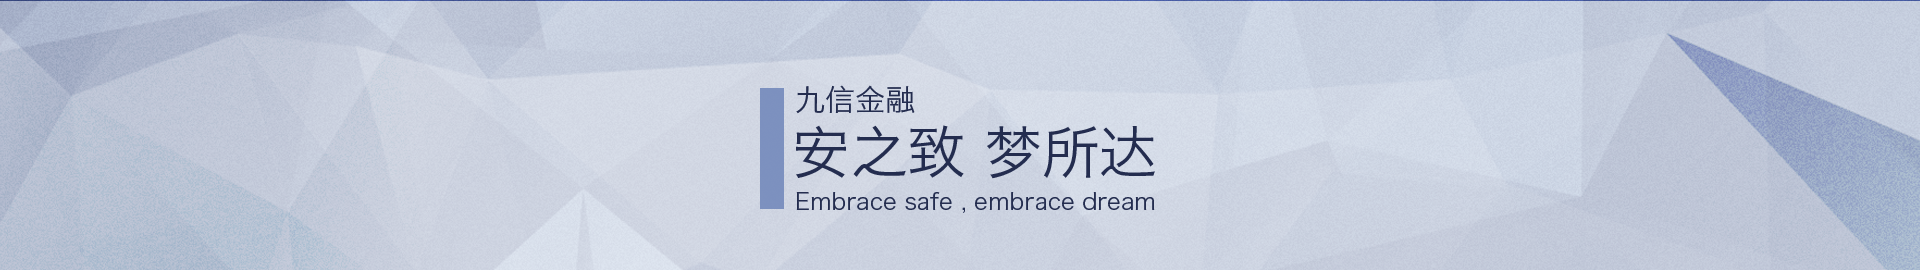
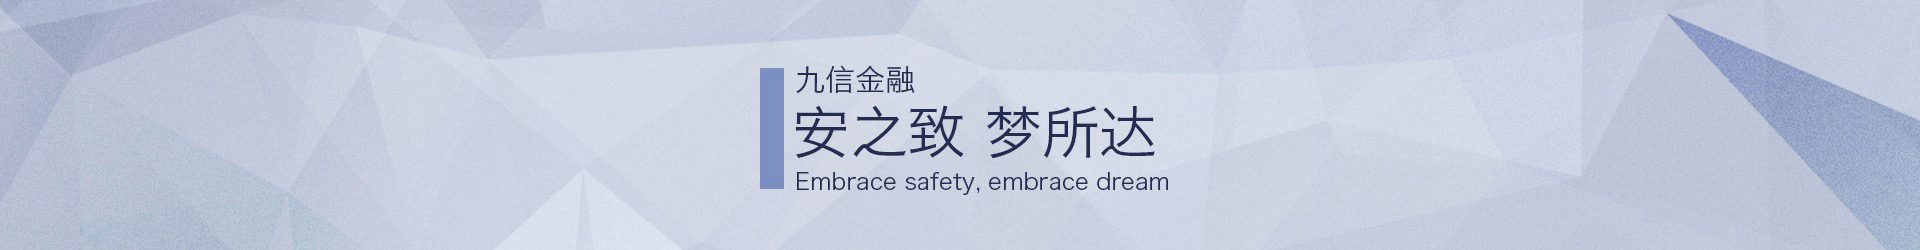
fixe some bugs

diff --git a/web/ccc/index/views/index.html b/web/ccc/index/views/index.html
@@ -54,7 +54,7 @@
             {{#carousel}}
             <div class="item {{#if @index === 0}}active{{/if}}" style="background: {{this.bgc}}">
                 <a href="{{this.link}}" target="_blank">
-                    <div style="background-image:url({{this.img}}); background-repeat:no-repeat; background-position:center; width: 100%; height: 869px;" >    
+                    <div style="background-image:url({{this.img}}); background-repeat:no-repeat; background-position:center; width: 100%; height: 460px;" >    
                     </div>
                 </a>
             </div>
